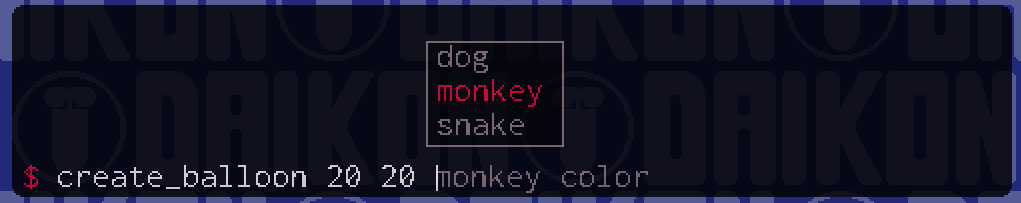
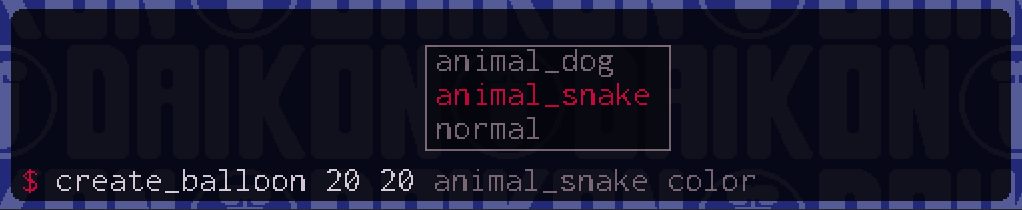
Various Fixes
- Replace obj_shell reference in create event with object_index
- Replace mouse_x calls with device_mouse_x_to_gui(0) calls
- Fix string_width() not taking consoleFont into consideration

diff --git a/README.md b/README.md
@@ -55,9 +55,9 @@ Adding metadata works much the same way as adding your custom commands in the fi
 Let's say that `sh_create_balloon` looked like this:
 ```gml
 function sh_create_balloon (args) {
-	var balloonAnimal = instance_create_layer(args[1], args[2], "balloon_layer", obj_balloon);
-	balloonAnimal.type = args[3];
-	balloonAnimal.color = args[4];
+	var balloon = instance_create_layer(args[1], args[2], "balloon_layer", obj_balloon);
+	balloon.type = args[3];
+	balloon.color = args[4];
 }
 ```
 
@@ -70,7 +70,7 @@ function meta_create_balloon() {
 		suggestions: [
 			[],
 			[],
-			["dog", "snake", "monkey"],
+			["normal", "animal_dog", "animal_snake"],
 			["pink", "blue", "brown", "green"]
 		],
 		argumentDescriptions: [
